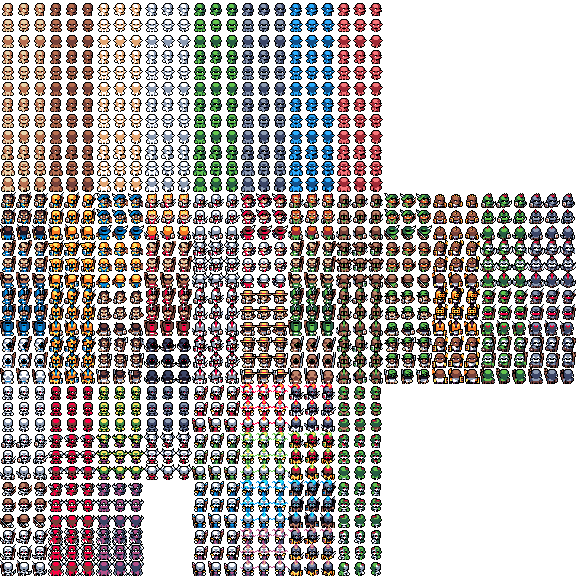
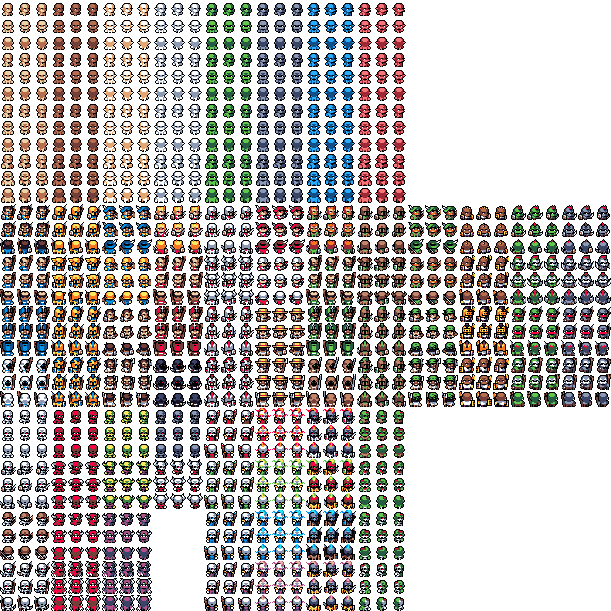
we need BIGGER castles. Make GW great again

diff --git a/client/army.js b/client/army.js
@@ -22,7 +22,7 @@ class Army {
       this.sprite = game.add.sprite(x, y, 'armies');
       this.unit = owner.color;
       // selected units are 3,6,12,15,18,21,432,435,438,441,444,447,450,453,456,459,462,465, 756,762,765,771,774,780
-      this.right = this.sprite.animations.add('right',[this.unit,this.unit +1 , this.unit +2],1);
+      this.right = this.sprite.animations.add('right',[this.unit,this.unit + 1, this.unit + 2],1);
       this.down = this.sprite.animations.add('down',[this.unit + 36,this.unit + 37,this.unit + 38],1);
       this.up = this.sprite.animations.add('up',[this.unit + 72,this.unit + 73,this.unit + 74],1);
       this.standing = this.sprite.animations.add('standing',[this.unit+36],1)
@@ -86,6 +86,7 @@ class Army {
     }
     if(clientNode != null){
        if(clientNode.castle){
+         this.sprite.scale.setTo(10,10);
          this.sprite.animations.play('castle',1,false);
        }else{
          this.sprite.animations.play('standing',1,false);

diff --git a/client/preloader.js b/client/preloader.js
@@ -5,7 +5,7 @@ var preloader = {
     // Load all assets.
     game.load.audio('march', 'client/assets/march.mp3');
     game.load.spritesheet('win', 'client/assets/win.png', 16, 16);
-    game.load.spritesheet('armies', 'client/assets/armies.png', 16, 16);
+    game.load.spritesheet('armies', 'client/assets/armies.png', 16, 16, -1, 0, 1);
     game.load.image('castle_img', 'client/assets/castle.png');
     game.load.image('node_img', 'client/assets/node.png');
     game.load.image('button1', 'client/assets/blue_button00.png');
